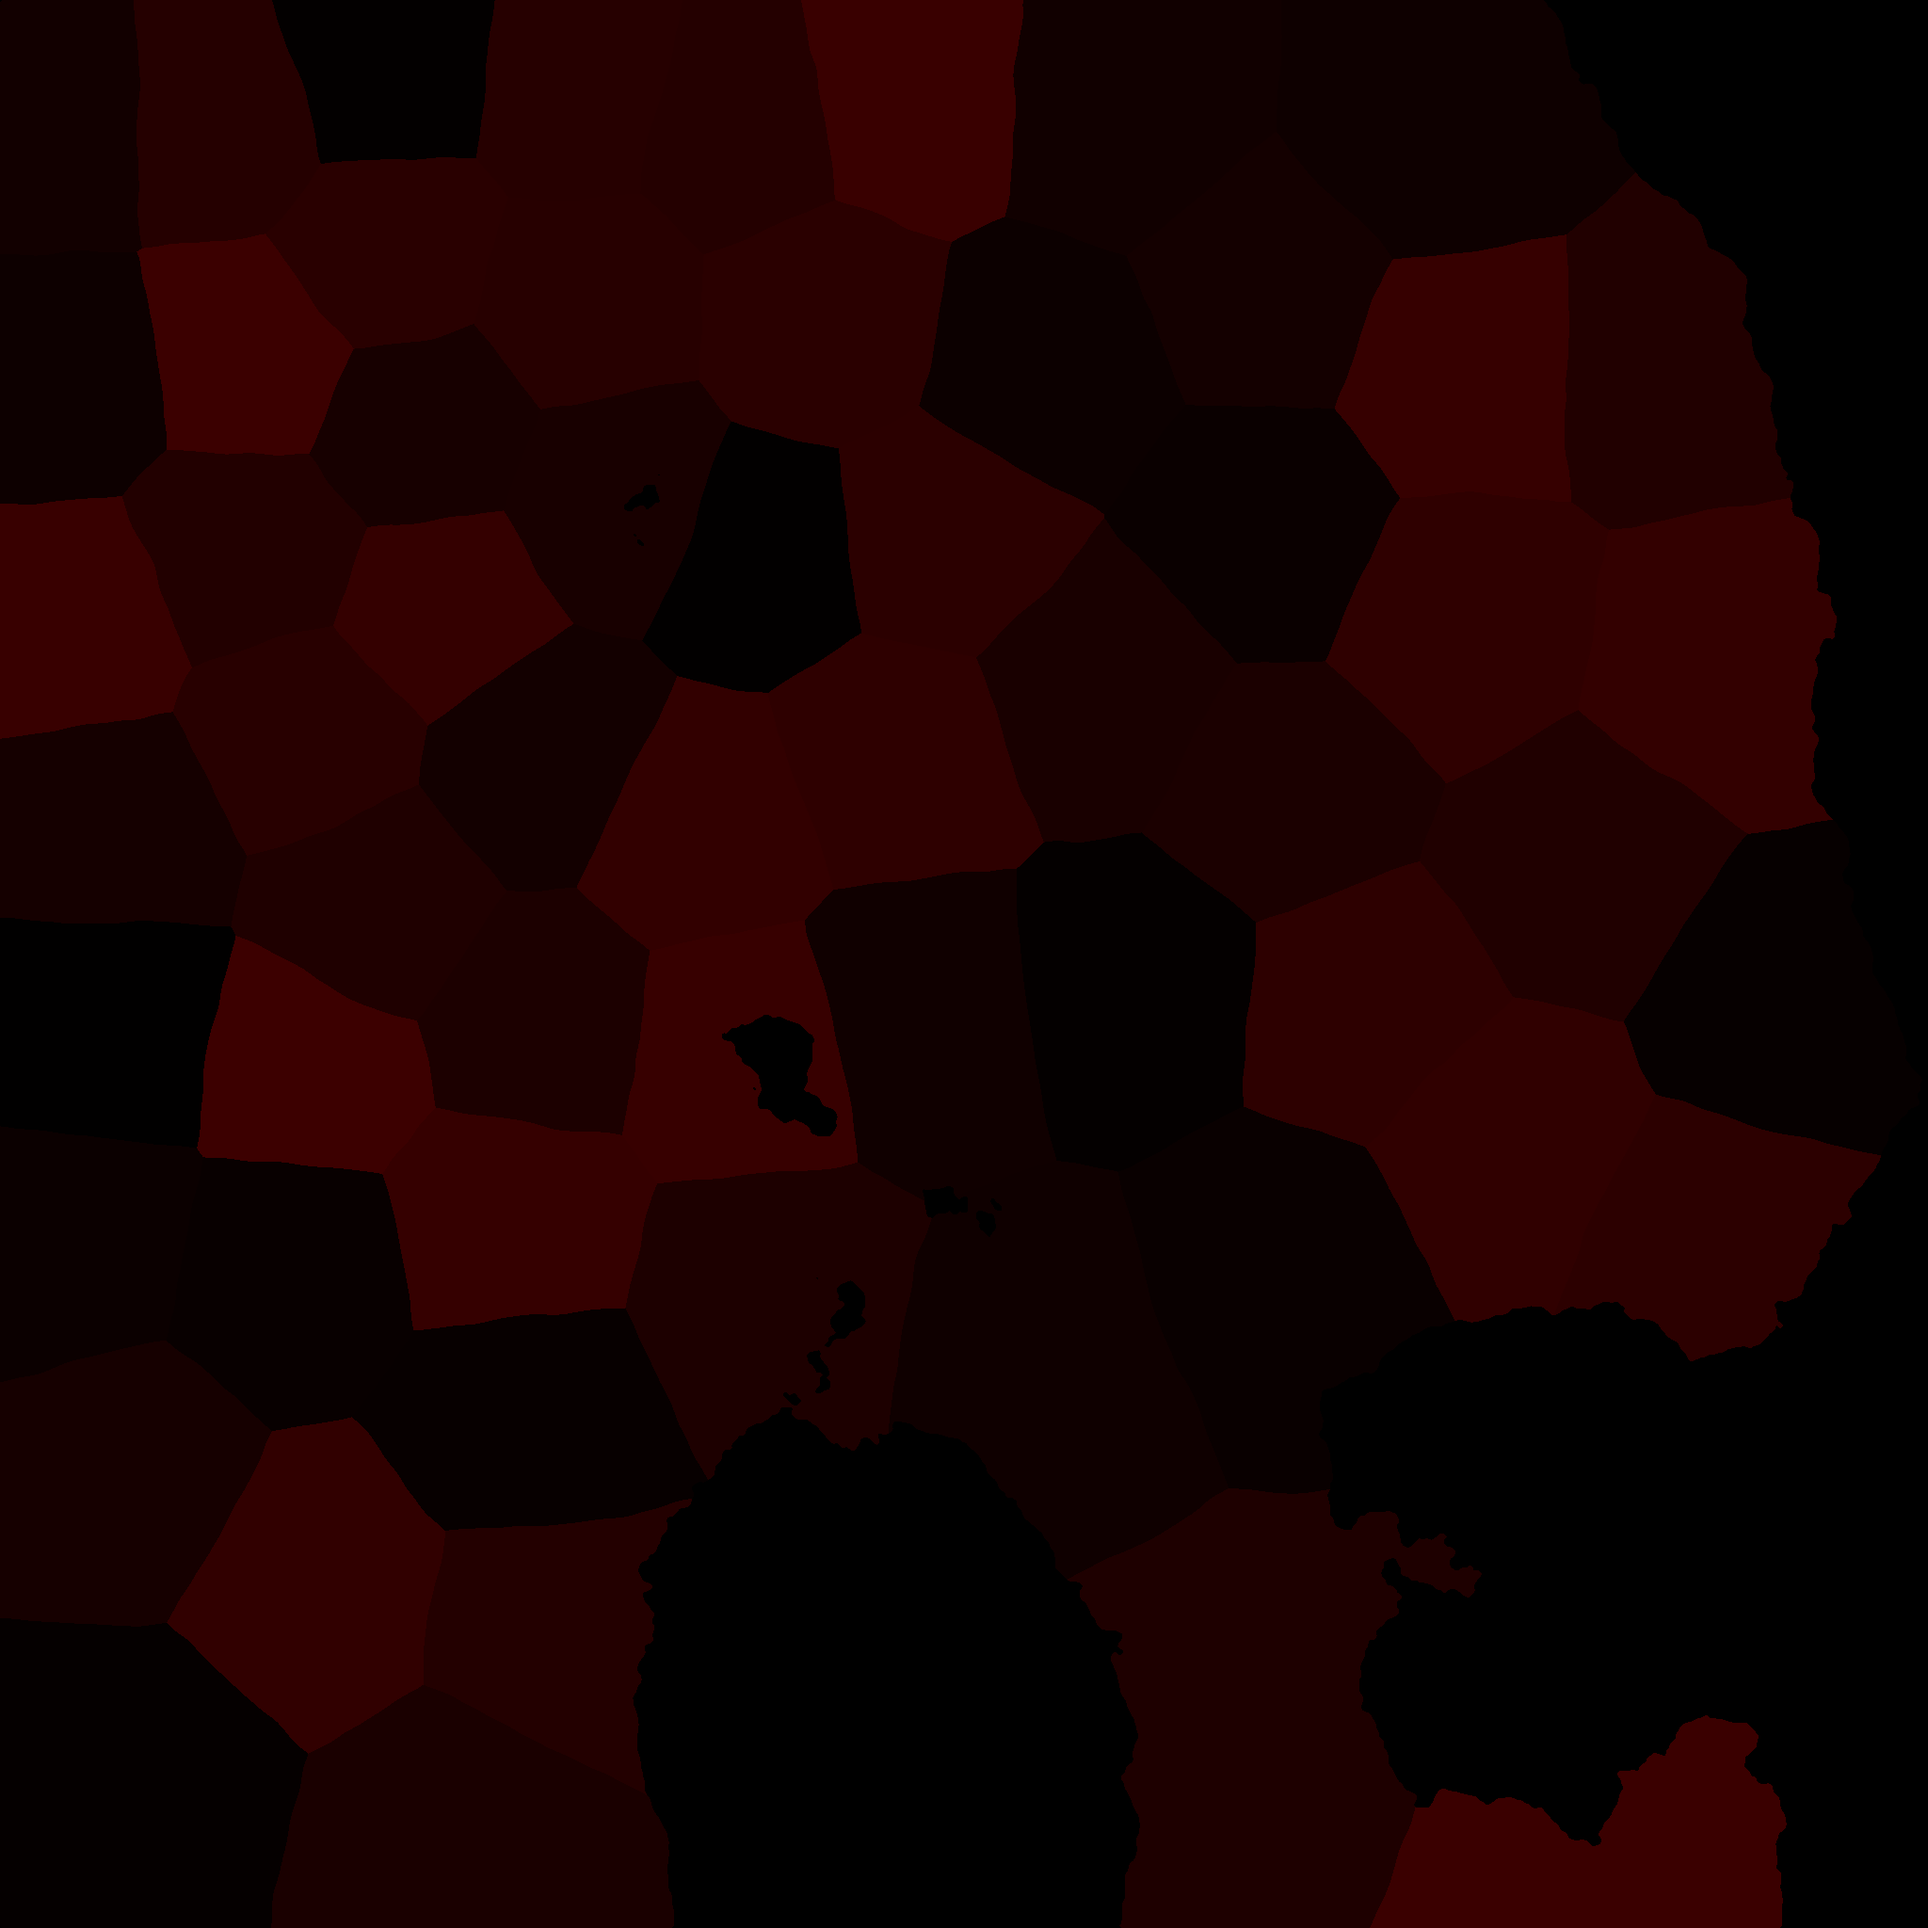
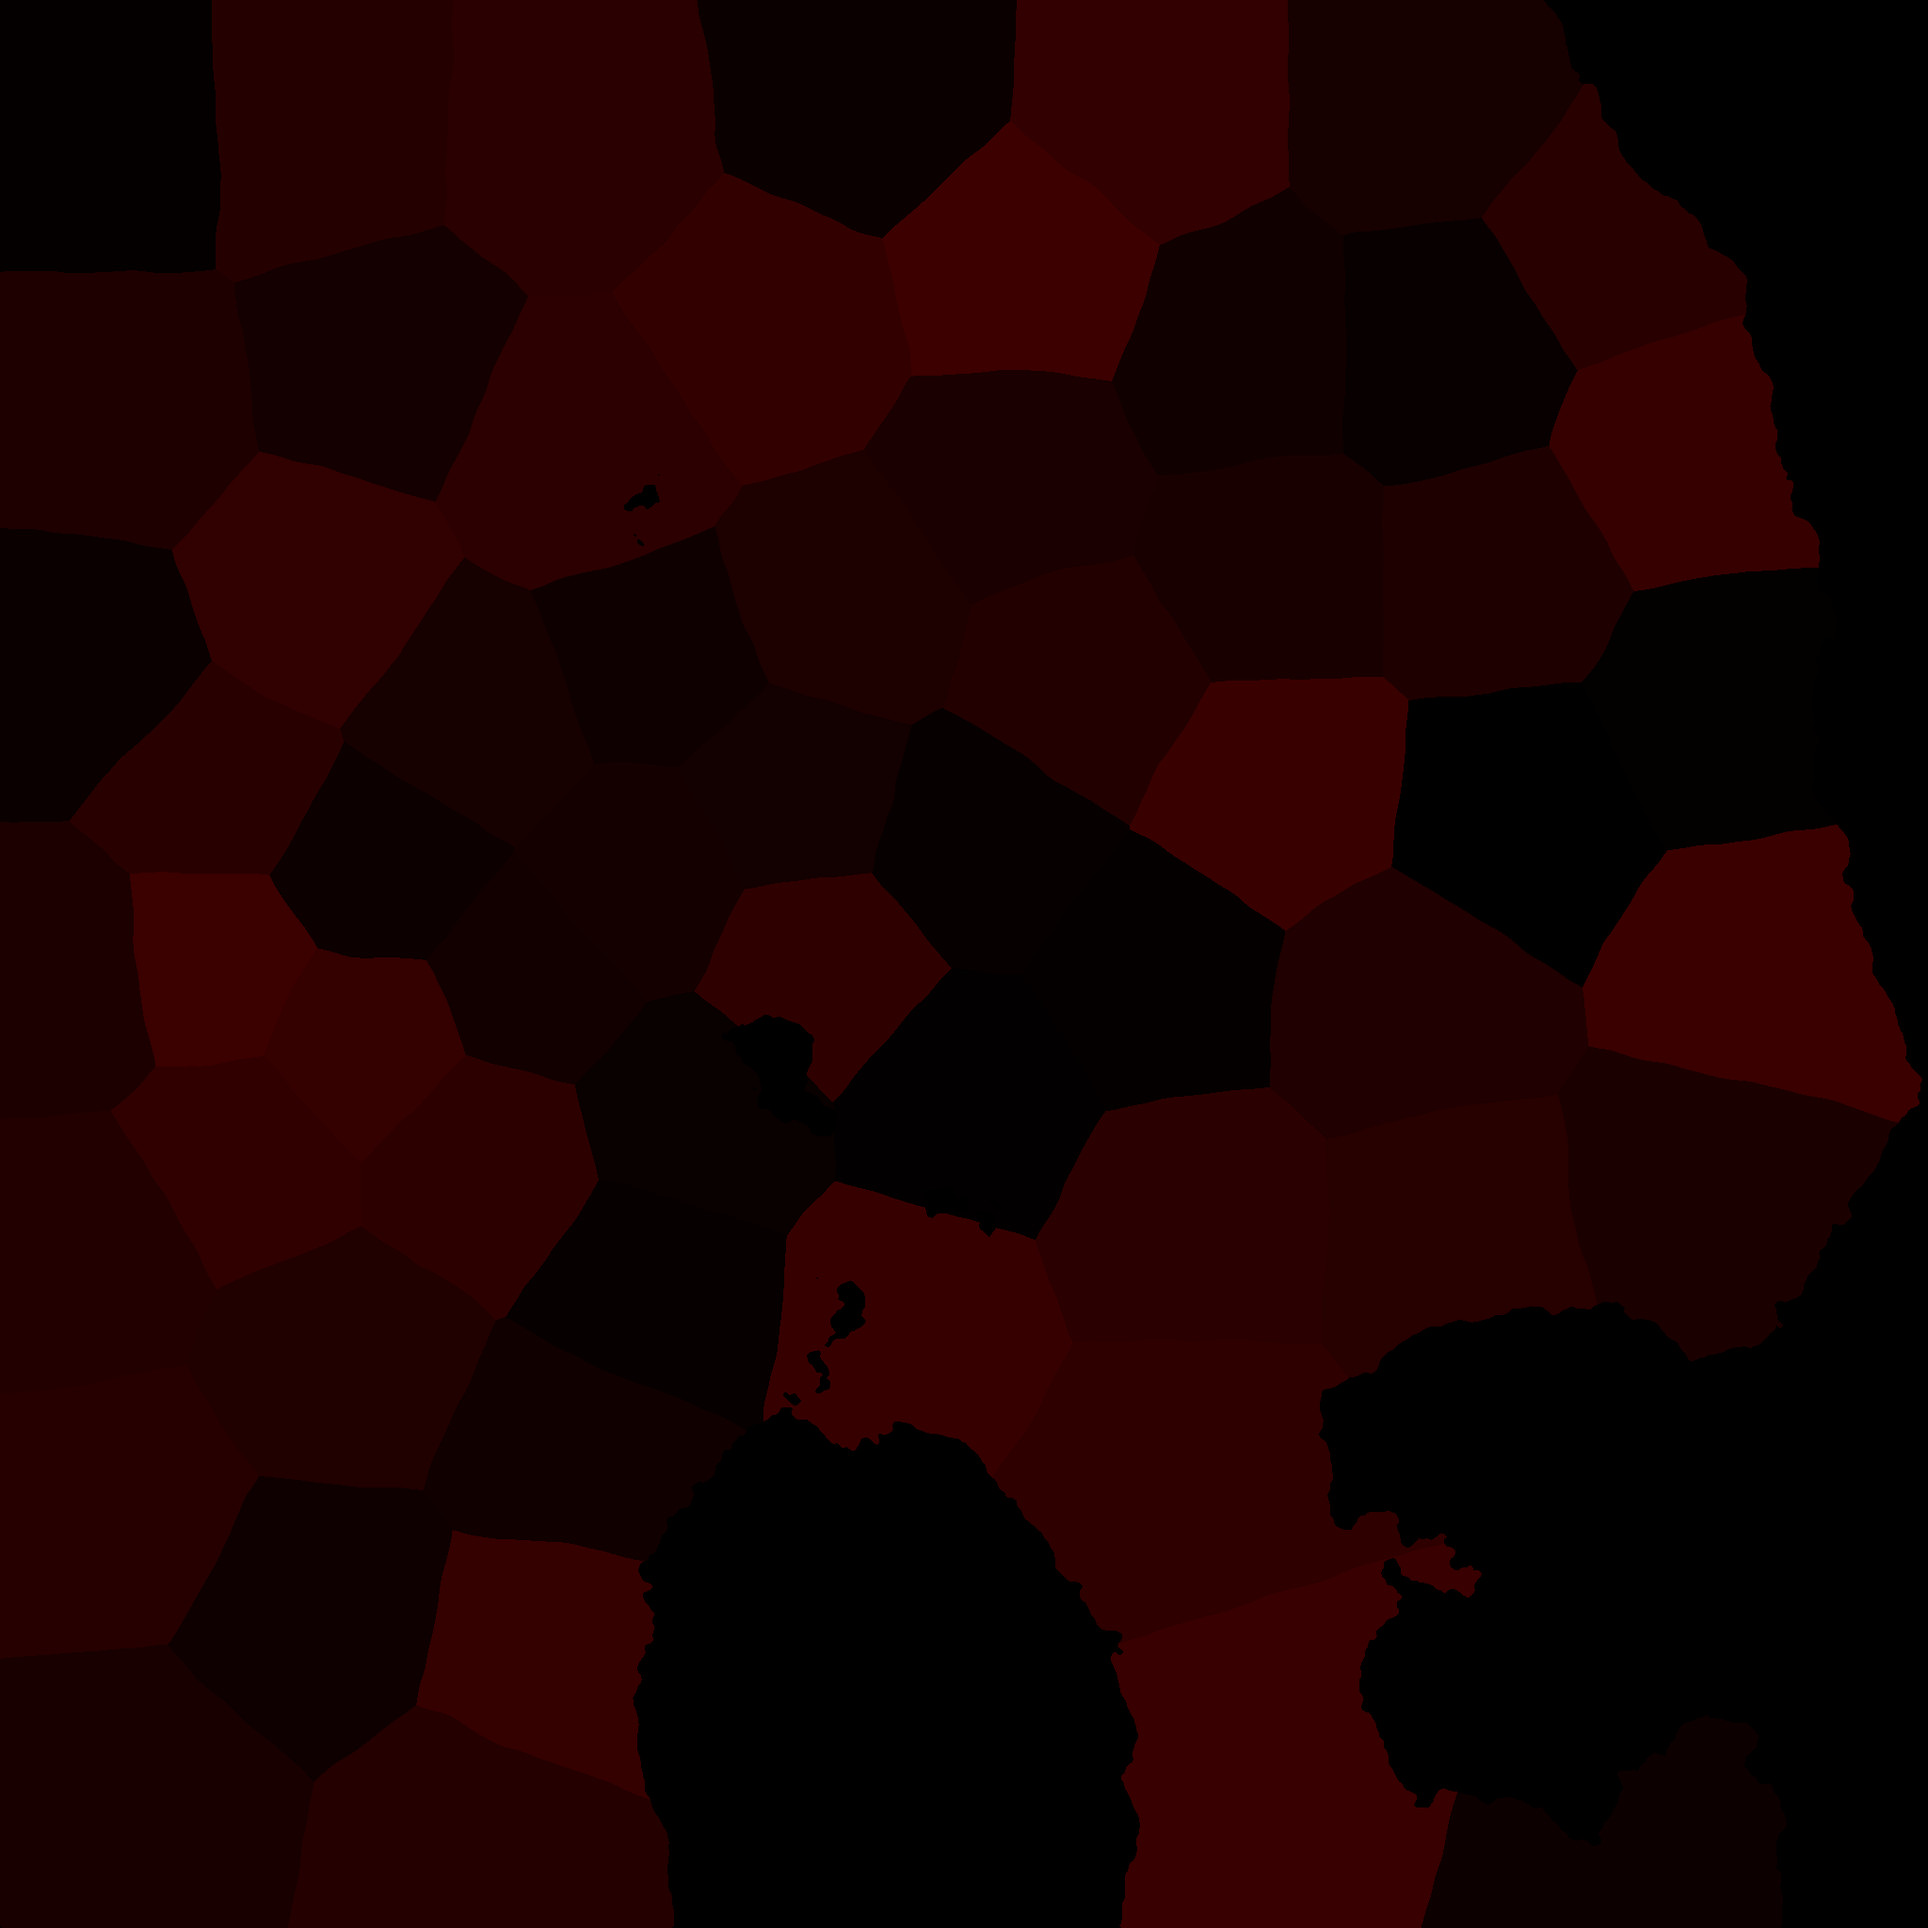
Map pass 3: ridged mountain ranges, rivers from a water-flow simulation, rippled sea with varied shallows
Claude-Session: https://claude.ai/code/session_014nGi4eSs3FWdL2Rsq4Dqkd

diff --git a/ci/map/bake.py b/ci/map/bake.py
@@ -15,6 +15,20 @@ def value_noise(cells, size=S):
     z = ndi.zoom(g, (size + 3 * size / cells) / (cells + 3), order=3)
     return z[:size, :size]
 
+def perlin(c, size=S):
+    ang = rng.random((c + 2, c + 2)) * 2 * np.pi
+    gxg, gyg = np.cos(ang), np.sin(ang)
+    t = np.linspace(0, c, size, endpoint=False)
+    xi = t.astype(int); xf = t - xi
+    X0, Y0 = np.meshgrid(xi, xi); FX, FY = np.meshgrid(xf, xf)
+    def dot(ox, oy):
+        return gxg[Y0 + oy, X0 + ox] * (FX - ox) + gyg[Y0 + oy, X0 + ox] * (FY - oy)
+    f = lambda v: v * v * v * (v * (v * 6 - 15) + 10)
+    u, v = f(FX), f(FY)
+    a = dot(0, 0) + u * (dot(1, 0) - dot(0, 0))
+    b = dot(0, 1) + u * (dot(1, 1) - dot(0, 1))
+    return a + v * (b - a)          # roughly -0.7..0.7
+
 def fbm(base=4, octaves=7, gain=0.5):
     out = np.zeros((S, S)); amp = 1; tot = 0; c = base
     for _ in range(octaves):
@@ -44,21 +58,26 @@ keep = np.isin(lab, 1 + np.where(sizes > S * S * 0.0008)[0])
 land = keep
 
 print('height')
-ridge = 1 - np.abs(fbm(5, 7) * 2 - 1)
-ridge = ridge ** 3
-mount_zone = np.clip((norm(fbm(2, 4)) - 0.55) * 4, 0, 1)
+def ridged(base, octaves=10):
+    out = np.zeros((S, S)); amp = 1; tot = 0; c = base; weight = np.ones((S, S))
+    for _ in range(octaves):
+        n = 1 - np.abs(perlin(c) * 1.4); n = np.clip(n, 0, 1) ** 2 * weight
+        out += n * amp; tot += amp; weight = np.clip(n * 1.6, 0, 1); amp *= 0.55; c *= 2
+        if c > S // 3: break
+    return out / tot
+mount_zone = np.clip((norm(fbm(2, 4)) - 0.45) * 3.0, 0, 1)
+mount = norm(warp(ridged(4), 28))
+hills = ridged(14, 6)
 dist_coast = ndi.distance_transform_edt(land)
-height = (np.clip(dist_coast / (S * 0.08), 0, 1) * 0.35 + ridge * mount_zone * 0.9 + fbm(8, 6) * 0.12) * land
-height = ndi.gaussian_filter(height, 1.2)
+height = (np.clip(dist_coast / (S * 0.06), 0, 1) * 0.22 + mount ** 1.5 * mount_zone * 1.3 + hills * 0.10) * land
 
-def hillshade(h, az=315, alt=40, z=18.0):
+def hillshade(h, az=315, alt=38, z=34.0):
     gy, gx = np.gradient(h * z * S / 1024)
     slope = np.pi / 2 - np.arctan(np.hypot(gx, gy))
     aspect = np.arctan2(-gx, gy)
     a, b = np.radians(az), np.radians(alt)
     return np.clip(np.sin(b) * np.sin(slope) + np.cos(b) * np.cos(slope) * np.cos(a - aspect), 0, 1)
 
-shade = hillshade(height)
 
 print('forest canopy')
 # canopy: dense little tree crowns, clumped by a forest-density field
@@ -84,35 +103,59 @@ tint = (cell % 997) / 997.0
 edge = (np.abs(uw - np.round(uw)) < 0.05) | (np.abs(vw - np.round(vw)) < 0.05)
 farm_zone = np.clip((norm(fbm(4, 5)) - 0.5) * 4, 0, 1) * land * (1 - forest) * (height < 0.45)
 
-print('rivers')
-river = np.zeros((S, S), bool)
-for k in range(12):
-    # walk downhill-ish from a high point towards the coast with wandering
-    hi = np.argwhere((height > 0.5) & land)
-    if len(hi) == 0: break
-    y, x = hi[rng.integers(len(hi))].astype(float)
-    pts = []
-    heading = rng.uniform(0, 2 * np.pi)
-    for step in range(4000):
-        pts.append((y, x))
-        iy, ix = int(y), int(x)
-        if not land[iy, ix]: break
-        gy, gx = np.gradient(height[max(iy - 3, 0):iy + 4, max(ix - 3, 0):ix + 4])
-        g = np.array([gy.mean(), gx.mean()])
-        target = np.arctan2(-g[0], -g[1]) if np.hypot(*g) > 1e-5 else heading
-        heading += 0.15 * np.angle(np.exp(1j * (target - heading))) + rng.normal(0, 0.12)
-        y += 2.0 * np.sin(heading); x += 2.0 * np.cos(heading)
-        if not (5 < y < S - 5 and 5 < x < S - 5): break
-    iy, ix = int(pts[-1][0]), int(pts[-1][1])
-    if land[iy, ix] or len(pts) < 60: continue                            # never reached the sea: drop it
-    for i, (py, px) in enumerate(pts):
-        w = 2 + 5 * i / max(len(pts), 1)
-        y0, y1 = int(max(py - w, 0)), int(min(py + w + 1, S)); x0, x1 = int(max(px - w, 0)), int(min(px + w + 1, S))
-        sy, sx = np.mgrid[y0:y1, x0:x1]
-        river[y0:y1, x0:x1] |= (sy - py) ** 2 + (sx - px) ** 2 <= w * w
+print('rivers: water flow')
+import heapq
+M = 512; f = S // M
+hs = height[::f, ::f][:M, :M].copy(); ls = land[::f, ::f][:M, :M]
+# priority-flood: fill pits so every drop of rain finds the sea
+filled = np.where(ls, np.inf, 0.0); done = ~ls.copy()
+heap = []
+coast_cells = ls & ndi.binary_dilation(~ls)
+for y, x in np.argwhere(coast_cells):
+    filled[y, x] = hs[y, x]; done[y, x] = True; heapq.heappush(heap, (hs[y, x], y, x))
+nb = [(-1, 0), (1, 0), (0, -1), (0, 1), (-1, -1), (-1, 1), (1, -1), (1, 1)]
+while heap:
+    h, y, x = heapq.heappop(heap)
+    for dy, dx in nb:
+        yy2, xx2 = y + dy, x + dx
+        if 0 <= yy2 < M and 0 <= xx2 < M and not done[yy2, xx2]:
+            done[yy2, xx2] = True
+            filled[yy2, xx2] = max(hs[yy2, xx2], h + 1e-6)
+            heapq.heappush(heap, (filled[yy2, xx2], yy2, xx2))
+filled[~ls] = 0
+# each cell drains to its lowest neighbour; accumulate rain from high to low
+recv = np.full((M, M, 2), -1)
+low = filled.copy()
+for dy, dx in nb:
+    sh = np.full((M, M), np.inf)
+    src = filled[max(dy, 0):M + min(dy, 0), max(dx, 0):M + min(dx, 0)]
+    sh[max(-dy, 0):M + min(-dy, 0), max(-dx, 0):M + min(-dx, 0)] = src
+    better = sh < low
+    low = np.where(better, sh, low)
+    recv[better] = (np.argwhere(better) + [dy, dx])
+acc = np.ones((M, M)) * ls
+order = np.argsort(-filled, axis=None)
+for idx in order:
+    y, x = divmod(idx, M)
+    if not ls[y, x]: continue
+    ry, rx = recv[y, x]
+    if ry >= 0: acc[ry, rx] += acc[y, x]
+# carve valleys into the terrain so the relief shows the drainage
+carve = ndi.gaussian_filter(ndi.zoom(np.log1p(acc), f, order=1)[:S, :S], f * 1.2)
+height = np.clip(height - carve * 0.012 * land, 0, None)
+thr = M * M * float(os.environ.get('RIVER_THR', '0.012'))
+rv = (acc > thr) & ls
+width = ndi.zoom(np.where(rv, np.sqrt(acc / thr), 0), f, order=0)[:S, :S]
+rv_big = ndi.zoom(rv.astype(np.uint8), f, order=0)[:S, :S].astype(bool)
+rv_big = ndi.binary_closing(rv_big, iterations=2)
+# smooth the river ribbon: blur the mask and re-threshold, width grows downstream
+soft = ndi.gaussian_filter(rv_big.astype(float) * (0.55 + 0.45 * np.clip(width, 1, 3)), f * 1.6)
+river = soft > 0.3
 river &= land
+bank = ndi.binary_dilation(river, iterations=max(1, S // 1024)) & land & ~river
 water = ~land | river
 
+shade = hillshade(height)
 print('colour')
 img = np.zeros((S, S, 3))
 # land base: meadow green, varied
@@ -136,20 +179,36 @@ base = base * (1 - ff) + fcol * ff
 base *= (0.62 + 0.5 * shade[..., None])
 # water
 dist_land = ndi.distance_transform_edt(~land)
-shallow = np.clip(1 - dist_land / (S * 0.035), 0, 1)[..., None]
-deep = np.array([0.10, 0.22, 0.33]); shal = np.array([0.20, 0.40, 0.48])
-waves = fbm(S // 24, 3, 0.6)
-waves = ndi.gaussian_filter(waves, (0.6, 2.2))                         # stretched ripples
-wcol = deep * (1 - shallow) + shal * shallow
-wcol = wcol * (0.82 + 0.4 * (waves[..., None] - 0.5) + 0.12)
-rcol = np.array([0.20, 0.36, 0.44]) * (0.85 + 0.35 * (waves[..., None] - 0.5))
+YY2, XX2 = np.mgrid[0:S, 0:S].astype(np.float32)
+rip = np.zeros((S, S), np.float32)
+main = np.radians(25)
+for k in range(16):
+    ang = main + rng.normal(0, 0.6); per = rng.uniform(7, 28)
+    ph = ((fbm(6, 4) - 0.5) * 14).astype(np.float32)
+    rip += np.sin((np.cos(ang) * XX2 + np.sin(ang) * YY2) * (2 * np.pi / per) + ph) * rng.uniform(0.5, 1.0)
+rip += ((value_noise(S // 9) - 0.5) * 1.5).astype(np.float32)
+rip *= (0.6 + 0.8 * fbm(5, 4)).astype(np.float32)                     # calmer and rougher patches
+gy, gx = np.gradient(rip)
+nz = 1.0 / np.sqrt(gx * gx * 0.08 + gy * gy * 0.08 + 1)
+glint = np.clip((-gx * 0.22 - gy * 0.22) * nz + nz * 0.1, 0, 1) ** 5 * (fbm(10, 4) > 0.4)   # sun from top-left, patchy
+band_w = S * (0.012 + 0.03 * fbm(5, 5))
+band = np.clip(1 - (dist_land - band_w) / (S * 0.006), 0, 1)        # shallow coastal water, width varies
+deep = np.array([0.11, 0.24, 0.36]); shal = np.array([0.22, 0.42, 0.50])
+depth_dark = np.clip(dist_land / (S * 0.25), 0, 1)[..., None] * 0.18
+wcol = deep * (1 - band[..., None]) + shal * band[..., None]
+lam = np.clip(0.5 + (-gx - gy) * 0.35, 0, 1)[..., None]               # each ripple lit on one side
+wcol = wcol * (1 - depth_dark) * (0.78 + 0.38 * lam) + glint[..., None] * np.array([0.45, 0.5, 0.52])
+rcol = np.array([0.17, 0.25, 0.30]) * (0.9 + 0.08 * rip[..., None] / 3) + glint[..., None] * np.array([0.7, 0.75, 0.78])
 img = np.where(land[..., None], base, wcol)
 img = np.where(river[..., None], rcol, img)
+img[bank] = img[bank] * 0.3 + 0.7 * np.array([0.80, 0.84, 0.82])
 # coast: thin dark rim on land and a soft drop shadow on the water, the "raised land" look
 rim = (ndi.binary_dilation(water, iterations=2) & land & ~river)
 img[rim] *= 0.7
 shadow = ndi.gaussian_filter(np.roll(np.roll(land.astype(float), 6, 0), 5, 1), 4) * (~land)
 img *= (1 - 0.35 * shadow[..., None])
+blur = ndi.gaussian_filter(img, (1.2, 1.2, 0))
+img = np.where(land[..., None] & ~river[..., None], img + (img - blur) * 0.6, img)
 img = np.clip(img, 0, 1)
 Image.fromarray((img * 255).astype(np.uint8)).save(os.path.join(OUT, 'terrain.png'), optimize=True)
 
